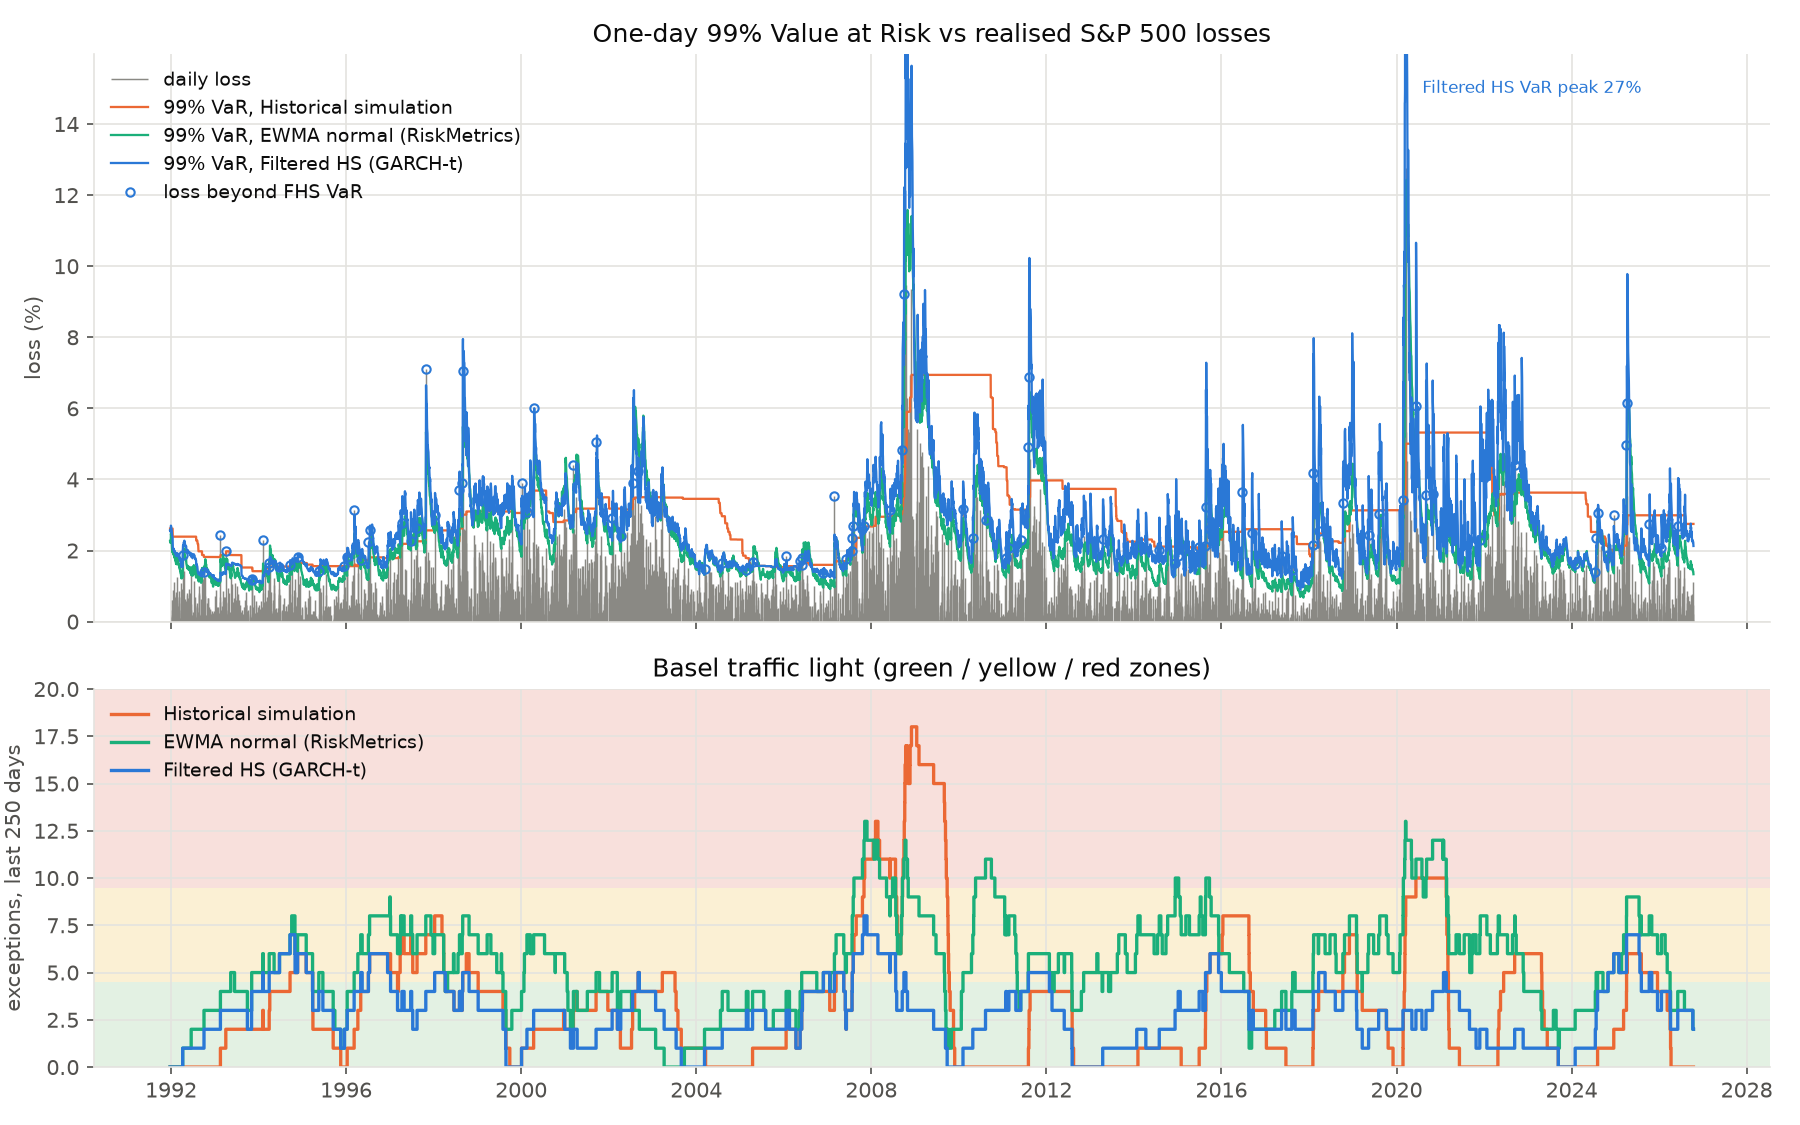
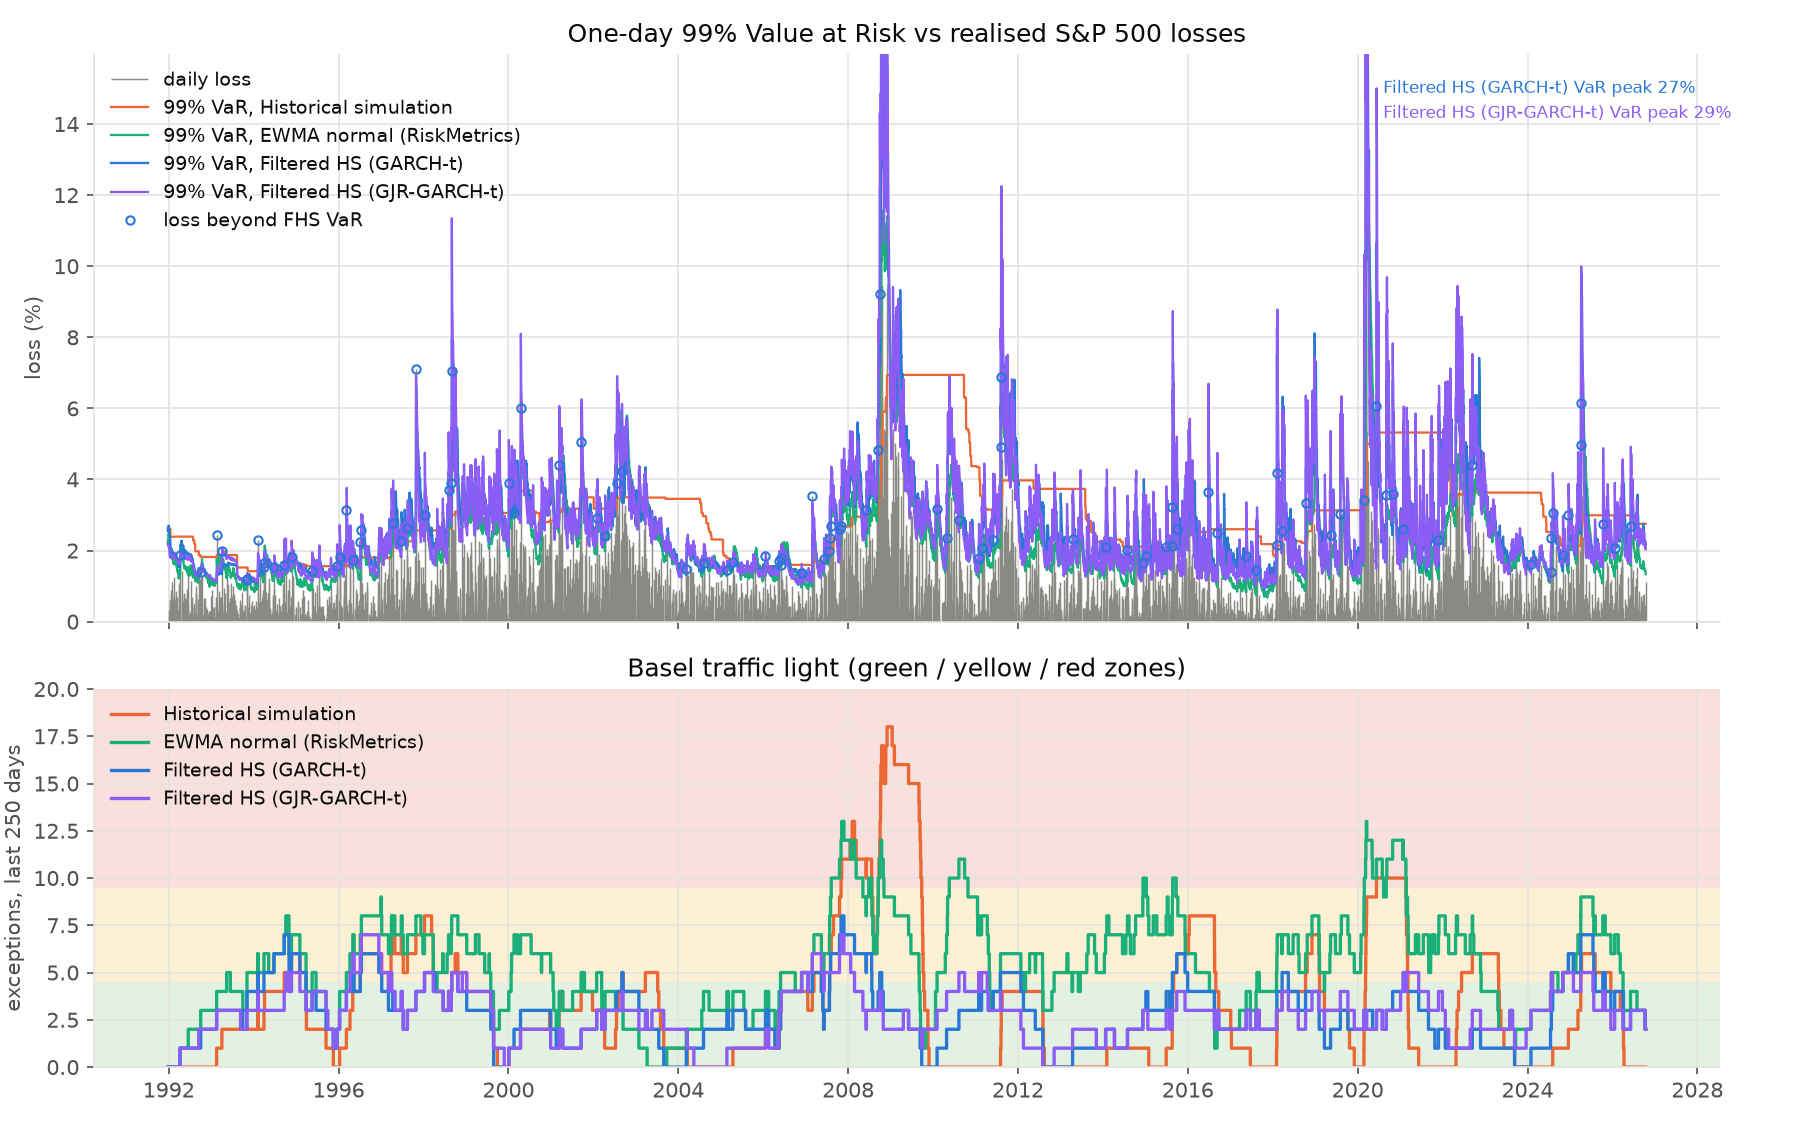
Add GJR-GARCH-t filtered HS; confirm FHS clustering by permutation
FHS 1991-2026 has 5 back-to-back exceptions (~1 expected). Shuffling the
100 exception days 10,000 times gives 5+ pairs in 0.72% of cases, matching
Christoffersen's asymptotic p = 0.0067.

Hypothesis fixed before running: the clustering is the leverage effect.
New model fhs_gjr (GJR-GARCH(1,1)-t, g on negative shocks, lev share in
[-1, 1] keeps a >= 0 and a + g >= 0); plain FHS output is bit-identical.
New test: GJR MLE recovers a 0.03, g 0.12, b 0.88, nu 5 on simulated data
and finds no leverage in symmetric data.

Run once. 1991-2026: 97 exceptions, Kupiec 0.323, Christoffersen 0.141
(permutation 0.431), Z2 p 0.108, worst 7 yellow, 0 back-to-back pairs.
FRED 2018-2026: 24 exceptions, Kupiec 0.400, Christoffersen 0.447,
Z2 p 0.168, worst 6 yellow.

diff --git a/varbt/core.py b/varbt/core.py
@@ -4,6 +4,7 @@ Models (all use only data before the forecast day):
   hs    Historical simulation: the last `window` returns are the scenarios (Basel default).
   ewma  RiskMetrics: normal with EWMA volatility, lambda = 0.94.
   fhs   Filtered historical simulation: GARCH(1,1)-t volatility x empirical standardized residuals.
+  fhs_gjr  Same with GJR-GARCH(1,1)-t: extra weight g on negative shocks (leverage effect).
 
 Backtests:
   Kupiec POF (exception count), Christoffersen independence and conditional coverage,
@@ -20,31 +21,39 @@ VAR_LEVEL, ES_LEVEL = 0.99, 0.975
 
 # ---------- GARCH(1,1) with Student-t innovations ----------
 
-def garch_variance(e, omega, a, b, v0):
-    """sigma2[t] = omega + a e[t-1]^2 + b sigma2[t-1]; sigma2[0] = v0. Returns len(e)+1 values
-    (the last one is the forecast for the next day)."""
-    u = np.concatenate([[v0], omega + a * e ** 2])
+def garch_variance(e, omega, a, b, v0, g=0.0):
+    """sigma2[t] = omega + (a + g [e[t-1] < 0]) e[t-1]^2 + b sigma2[t-1]; sigma2[0] = v0. g = 0 is
+    GARCH, g > 0 GJR. Returns len(e)+1 values (the last one is the forecast for the next day)."""
+    u = np.concatenate([[v0], omega + (a + g * (e < 0)) * e ** 2])
     return lfilter([1.0], [1.0, -b], u)  # y[t] = u[t] + b y[t-1], y[0] = v0
 
 
-def garch_fit(r):
-    """MLE of r = mu + sigma z, z ~ unit-variance Student-t. Returns (mu, omega, a, b, nu).
+def garch_fit(r, gjr=False):
+    """MLE of r = mu + sigma z, z ~ unit-variance Student-t. Returns (mu, omega, a, b, nu, g).
     Fitted on r / sd with a = pers * share, b = pers * (1 - share), so stationarity is a plain box
-    bound: a penalty wall at a + b = 0.999 used to stall L-BFGS-B up to 6 log-lik units short (measured)."""
+    bound: a penalty wall at a + b = 0.999 used to stall L-BFGS-B up to 6 log-lik units short (measured).
+    gjr: a + g/2 = pers * share is split as a = (1 - lev) pers share, g = 2 lev pers share, lev in
+    [-1, 1], which keeps a >= 0, a + g >= 0 and a + g/2 + b < 1. Without gjr, g = 0."""
     sd = r.std()
     y = r / sd
 
     def nll(p):
-        mu, lw, pers, share, nu = p
+        mu, lw, pers, share, nu = p[:5]
+        lev = p[5] if gjr else 0.0
         e = y - mu
-        s2 = garch_variance(e, np.exp(lw), pers * share, pers * (1 - share), 1.0)[:-1]
+        s2 = garch_variance(e, np.exp(lw), pers * share * (1 - lev), pers * (1 - share), 1.0,
+                            2 * pers * share * lev)[:-1]
         k = np.sqrt(nu / (nu - 2))
         return -np.sum(student_t.logpdf(e / np.sqrt(s2) * k, nu) + np.log(k) - 0.5 * np.log(s2))
 
     x0 = [y.mean(), np.log(0.05), 0.96, 0.08, 6.0]
     bounds = [(-0.01 / sd, 0.01 / sd), (-12, 0), (0.0, 0.998), (1e-4, 1.0), (2.1, 50)]
-    mu, lw, pers, share, nu = minimize(nll, x0, method="L-BFGS-B", bounds=bounds).x
-    return mu * sd, np.exp(lw) * sd ** 2, pers * share, pers * (1 - share), nu
+    if gjr:
+        x0, bounds = x0 + [0.0], bounds + [(-1.0, 1.0)]
+    p = minimize(nll, x0, method="L-BFGS-B", bounds=bounds).x
+    mu, lw, pers, share, nu = p[:5]
+    lev = p[5] if gjr else 0.0
+    return mu * sd, np.exp(lw) * sd ** 2, pers * share * (1 - lev), pers * (1 - share), nu, 2 * pers * share * lev
 
 
 # ---------- rolling forecasts ----------
@@ -78,12 +87,12 @@ def forecast(r, window=500, model="fhs", refit=21, lam=0.94):
     idx = days[:, None] + np.arange(-window, 0)  # past `window` days for each forecast day
     if model == "hs":
         S = r[idx]
-    elif model == "fhs":
+    elif model in ("fhs", "fhs_gjr"):
         S = np.empty(idx.shape)
         for i0 in range(0, len(days), refit):
             t0 = days[i0]
-            mu, omega, a, b, nu = garch_fit(r[t0 - window:t0])
-            s = np.sqrt(garch_variance(r - mu, omega, a, b, r[:window].var()))  # s[t]: info to t-1
+            mu, omega, a, b, nu, g = garch_fit(r[t0 - window:t0], gjr=model == "fhs_gjr")
+            s = np.sqrt(garch_variance(r - mu, omega, a, b, r[:window].var(), g))  # s[t]: info to t-1
             blk = slice(i0, min(i0 + refit, len(days)))
             z = (r[idx[blk]] - mu) / s[idx[blk]]
             S[blk] = mu + s[days[blk], None] * z

diff --git a/varbt/__main__.py b/varbt/__main__.py
@@ -9,8 +9,9 @@ import numpy as np
 from .core import backtest, forecast, traffic_light_limits
 from .data import load_csv, load_yahoo
 
-MODELS = {"hs": "Historical simulation", "ewma": "EWMA normal (RiskMetrics)", "fhs": "Filtered HS (GARCH-t)"}
-COLOR = {"hs": "#eb6834", "ewma": "#1baf7a", "fhs": "#2a78d6"}
+MODELS = {"hs": "Historical simulation", "ewma": "EWMA normal (RiskMetrics)", "fhs": "Filtered HS (GARCH-t)",
+          "fhs_gjr": "Filtered HS (GJR-GARCH-t)"}
+COLOR = {"hs": "#eb6834", "ewma": "#1baf7a", "fhs": "#2a78d6", "fhs_gjr": "#8b5cf6"}
 INK, MUTED, GRID = "#0b0b0b", "#52514e", "#e4e3df"
 
 
@@ -45,13 +46,14 @@ def plot(r, res, out):
     fb = res["fhs"][1]["hits"]
     a1.plot(t[fb], loss[fb], "o", ms=4, mfc="none", mec=COLOR["fhs"], label="loss beyond FHS VaR")
     top = loss.max() * 1.25
-    peak_right = False
-    for m, (f, b) in res.items():  # label any VaR peak cut off by the axis
+    peak_right, n_peaks = False, 0
+    for m, (f, b) in res.items():  # label any VaR peak cut off by the axis, stacked
         i = int(np.argmax(f["var99"]))
         if f["var99"][i] * 100 > top:
-            a1.annotate(f"{MODELS[m].split(' (')[0]} VaR peak {f['var99'][i] * 100:.0f}%", (t[i], top * 0.97),
-                        xytext=(8, -4), textcoords="offset points", fontsize=8, color=COLOR[m], va="top")
+            a1.annotate(f"{MODELS[m]} VaR peak {f['var99'][i] * 100:.0f}%", (t[i], top * 0.97),
+                        xytext=(8, -4 - 12 * n_peaks), textcoords="offset points", fontsize=8, color=COLOR[m], va="top")
             peak_right |= i > len(t) / 2
+            n_peaks += 1
     a1.set(ylabel="loss (%)", title="One-day 99% Value at Risk vs realised S&P 500 losses", ylim=(0, top))
     a1.legend(frameon=False, fontsize=9, loc="upper left" if peak_right else "upper right")
 

diff --git a/tests/test_varbt.py b/tests/test_varbt.py
@@ -24,9 +24,22 @@ def test_garch_filter_matches_recursion():
 def test_garch_mle_recovers_parameters():
     for seed in (3, 4):
         r, _ = simulate_garch_t(5000, a=0.10, b=0.88, nu=5.0, seed=seed)
-        mu, omega, a, b, nu = garch_fit(r)
+        mu, omega, a, b, nu, g = garch_fit(r)
+        assert g == 0.0
         assert abs(a - 0.10) < 0.03 and abs(b - 0.88) < 0.03 and abs(a + b - 0.98) < 0.015, (a, b)
         assert 3.5 < nu < 7.5, nu
+
+
+def test_gjr_mle_recovers_parameters():
+    # Known truth a 0.03, g 0.12, b 0.88 (persistence a + g/2 + b = 0.97), nu 5. Over 12 seeds the
+    # estimates had sd ~0.01 (a, g, b) and ~0.25 (nu): tolerances are ~3 sd.
+    for seed in (3, 4):
+        r, _ = simulate_garch_t(5000, a=0.03, g=0.12, b=0.88, nu=5.0, seed=seed)
+        mu, omega, a, b, nu, g = garch_fit(r, gjr=True)
+        assert abs(g - 0.12) < 0.04 and abs(a - 0.03) < 0.03 and abs(a + g / 2 + b - 0.97) < 0.03, (a, g, b)
+        assert 3.5 < nu < 7.5, nu
+    r, _ = simulate_garch_t(5000, a=0.10, b=0.88, nu=5.0, seed=3)  # symmetric truth: no leverage found
+    assert abs(garch_fit(r, gjr=True)[5]) < 0.04
 
 
 def test_garch_mle_reaches_optimum_on_real_windows():
@@ -47,7 +60,7 @@ def test_garch_mle_reaches_optimum_on_real_windows():
 
     for t0 in (1949, 1991, 2033):
         x = r[t0 - 500:t0]
-        mu, omega, a, b, nu = garch_fit(x)
+        mu, omega, a, b, nu, _ = garch_fit(x)
         p = [mu, np.log(omega), a, b, nu]
         best = min(minimize(nll, x0, args=(x,), method="Nelder-Mead",
                             options={"maxiter": 20000, "xatol": 1e-9, "fatol": 1e-11}).fun

diff --git a/varbt/data.py b/varbt/data.py
@@ -19,14 +19,15 @@ def load_yahoo(ticker="^GSPC", start="1990-01-01"):
     return np.log(px).diff().dropna()
 
 
-def simulate_garch_t(n, mu=0.0003, omega=2e-6, a=0.10, b=0.88, nu=5.0, seed=0):
-    """r = mu + sigma z, sigma2 GARCH(1,1), z unit-variance Student-t. Returns (r, sigma)."""
+def simulate_garch_t(n, mu=0.0003, omega=2e-6, a=0.10, b=0.88, nu=5.0, seed=0, g=0.0):
+    """r = mu + sigma z, sigma2 GARCH(1,1) (GJR if g > 0), z unit-variance Student-t. Returns (r, sigma)."""
     rng = np.random.default_rng(seed)
     z = rng.standard_t(nu, n) * np.sqrt((nu - 2) / nu)
     s2, r = np.empty(n), np.empty(n)
-    s2[0] = omega / (1 - a - b)
+    s2[0] = omega / (1 - a - g / 2 - b)
     for t in range(n):
         if t:
-            s2[t] = omega + a * (r[t - 1] - mu) ** 2 + b * s2[t - 1]
+            e = r[t - 1] - mu
+            s2[t] = omega + (a + g * (e < 0)) * e ** 2 + b * s2[t - 1]
         r[t] = mu + np.sqrt(s2[t]) * z[t]
     return r, np.sqrt(s2)

diff --git a/README.md b/README.md
@@ -1,6 +1,6 @@
 # VaR Backtest
 
-**Which risk model would have survived 2020?** Three standard ways to compute the one-day Value at Risk and Expected Shortfall of an S&P 500 position, run day by day over 2018–2026 using only data available at the time, then judged by the same backtests regulators use.
+**Which risk model would have survived 2020?** Three standard ways (plus one variant) to compute the one-day Value at Risk and Expected Shortfall of an S&P 500 position, run day by day over 2018–2026 using only data available at the time, then judged by the same backtests regulators use.
 
 ![VaR backtest on the S&P 500](var_sp500.png)
 
@@ -9,12 +9,14 @@
 | Historical simulation | 27 | 0.144 | **0.004** | **10, red** (to 2020-06) | **0.000** | 3.59% |
 | EWMA normal (RiskMetrics) | **50** | **0.000** | 0.504 | **13, red** (to 2020-03) | **0.000** | 2.47% |
 | Filtered HS (GARCH-t) | 21 | 0.847 | 0.216 | 7, yellow (to 2025-04) | 0.122 | 3.15% |
+| Filtered HS (GJR-GARCH-t) | 24 | 0.400 | 0.447 | 6, yellow (to 2024-10) | 0.168 | 3.12% |
 
 *p < 0.05 rejects the model. 2,013 trading days, 2018-02-08 to 2026-02-11.*
 
 - **Historical simulation** gets the overall count right, which is why banks like it, but its exceptions arrive in clusters (Christoffersen rejects). It reacted to COVID only after the losses had happened and reached the Basel **red zone**.
 - **EWMA normal** reacts fast, so its exceptions don't cluster, but normal tails are far too thin: **2.5×** the expected exceptions.
 - **Filtered historical simulation** passes every test here. It also holds **less** risk on average than historical simulation (3.15% vs 3.59%): it raises VaR when volatility rises and lowers it in calm markets, instead of carrying a 2-year-old crash for 2 years. Over 1991–2026 it fails the clustering test ([below](#long-history-1990today)).
+- **Filtered HS with GJR-GARCH-t** (volatility reacts more to falls than to rises) also passes every test, here and over 1991–2026.
 
 ## Long history (1990–today)
 
@@ -27,10 +29,13 @@
 | Historical simulation | 114 | **0.007** | **0.000** | **18, red** (to 2008-12) | **0.000** | 3.05% |
 | EWMA normal (RiskMetrics) | **189** | **0.000** | **0.004** | **13, red** (to 2007-11) | **0.000** | 2.30% |
 | Filtered HS (GARCH-t) | 100 | 0.194 | **0.007** | 8, yellow (to 2007-11) | 0.077 | 2.74% |
+| Filtered HS (GJR-GARCH-t) | 97 | 0.323 | 0.141 | 7, yellow (to 1996-07) | 0.108 | 2.69% |
 
 - **HS and EWMA still fail.** HS now fails the exception count too, and 2008 puts it at 18 exceptions in 250 days, deep in the red zone. EWMA has 2.2× the expected exceptions and now also fails Christoffersen.
-- **FHS fails Christoffersen.** It gets the count right, never reaches red, and its ES passes, but it has 5 back-to-back exceptions (1993, 1994, 2015, 2018, 2025) where about 1 is expected. At 8,763 days the test is no longer oversized (see Validation), so this is a real rejection, consistent with the GARCH filter reacting a day late to sudden volatility jumps. The original optimizer (see Validation) fails it too (p = 0.039).
+- **FHS fails Christoffersen.** It gets the count right, never reaches red, and its ES passes, but it has 5 back-to-back exceptions where about 1 is expected: 1993-11-03/04, 1994-03-29/30, 2015-08-20/21, 2018-02-02/05 and 2025-04-03/04 (the second 1993 loss beat VaR by under 0.01 points). Shuffling the 100 exception days 10,000 times gives 5 or more pairs in 0.72% of cases, matching the test's asymptotic p = 0.0067. The original optimizer (see Validation) fails it too (p = 0.039).
 - In 2018–2026 FHS had only 1 back-to-back exception. Eight years is too short to see the clustering that 35 years shows.
+- **Hypothesis, fixed before running: the clustering comes from the leverage effect.** GJR-GARCH-t adds a weight g on yesterday's squared return when it was negative. Run once: it passes every test, with **0** back-to-back exceptions in 97. Its Christoffersen p of 0.141 comes from having fewer pairs than expected (the test is two-sided); the same shuffle gives 0.431. In 99% of its 418 refits g > 0, and the median fit puts all of the shock response on falls (median α 0.000, g 0.182).
+- **What it means:** the symmetric GARCH filter under-reacts to falls, and letting falls raise volatility more removes the clustering at a similar exception count (97 vs 100) and slightly lower average VaR (2.69% vs 2.74%), which supports the leverage hypothesis on one index and one run but does not prove it.
 
 ## Method
 
@@ -41,6 +46,7 @@
 | Historical simulation | none (last 500 returns as they were) | empirical |
 | EWMA normal | RiskMetrics, λ = 0.94 | normal |
 | Filtered HS | GARCH(1,1) with Student-t innovations, MLE refit every 21 days | empirical standardized residuals (Barone-Adesi et al.) |
+| Filtered HS, GJR | GJR-GARCH(1,1)-t (Glosten-Jagannathan-Runkle): σ²ₜ = ω + (α + g·[εₜ₋₁ < 0]) εₜ₋₁² + β σ²ₜ₋₁, ε = r − μ | same as FHS |
 
 **Backtests**
 
@@ -53,12 +59,13 @@
 
 ## Validation
 
-`python tests/test_varbt.py` (or `python -m pytest`), 11 tests, about 25 seconds (longer on the first, cold run). Every test checks against a known answer.
+`python tests/test_varbt.py` (or `python -m pytest`), 12 tests, about 25 seconds (longer on the first, cold run). Every test checks against a known answer.
 
 | Check | Result |
 |---|---|
 | GARCH variance filter vs plain recursion | equal to 1e-18 |
 | GARCH-t MLE on simulated data (true α 0.10, β 0.88, ν 5) | recovers α+β within 0.015, ν within 3.5–7.5 |
+| GJR-GARCH-t MLE on simulated data (true α 0.03, g 0.12, β 0.88, ν 5) | α, g within 0.03–0.04, α+g/2+β within 0.03, ν 3.5–7.5; on symmetric data \|g\| < 0.04 |
 | GARCH-t MLE on real windows with α+β near 1 | within 0.05 log-lik of a long Nelder-Mead search |
 | Normal 97.5% ES vs 99% VaR | 2.338σ vs 2.326σ, the Basel FRTB equivalence |
 | Kupiec statistic vs binomial likelihood ratio | exact |
@@ -87,7 +94,7 @@ Prints the table above and saves `var.png`.
 ## Limits
 
 - **One asset, long only.** A portfolio needs a joint model (e.g. filtered HS on several assets with a correlation model).
-- **FHS overreacts after shocks.** Its 99% VaR peaked at 28% in March 2020, when the worst daily loss was 12.8%. That conservatism is part of why it passes; a desk would also judge it on how much capital it ties up during a crisis.
+- **FHS overreacts after shocks.** Its 99% VaR peaked at 28% in March 2020 (GJR: 30%), when the worst daily loss was 12.8%. That conservatism is part of why it passes; a desk would also judge it on how much capital it ties up during a crisis.
 - **The bundled data has no 2008.** FRED publishes 10 years of the S&P 500 index for free. `--ticker ^GSPC` adds 1990 onward, including 2008 ([Long history](#long-history-1990today)); Yahoo data isn't bundled, so that table can drift slightly as Yahoo revises or extends its series.
 - **Price index, not total return.** Dividends are ignored: under 0.01% a day, small next to 1-day risk. Returns and losses are daily log returns.
 
